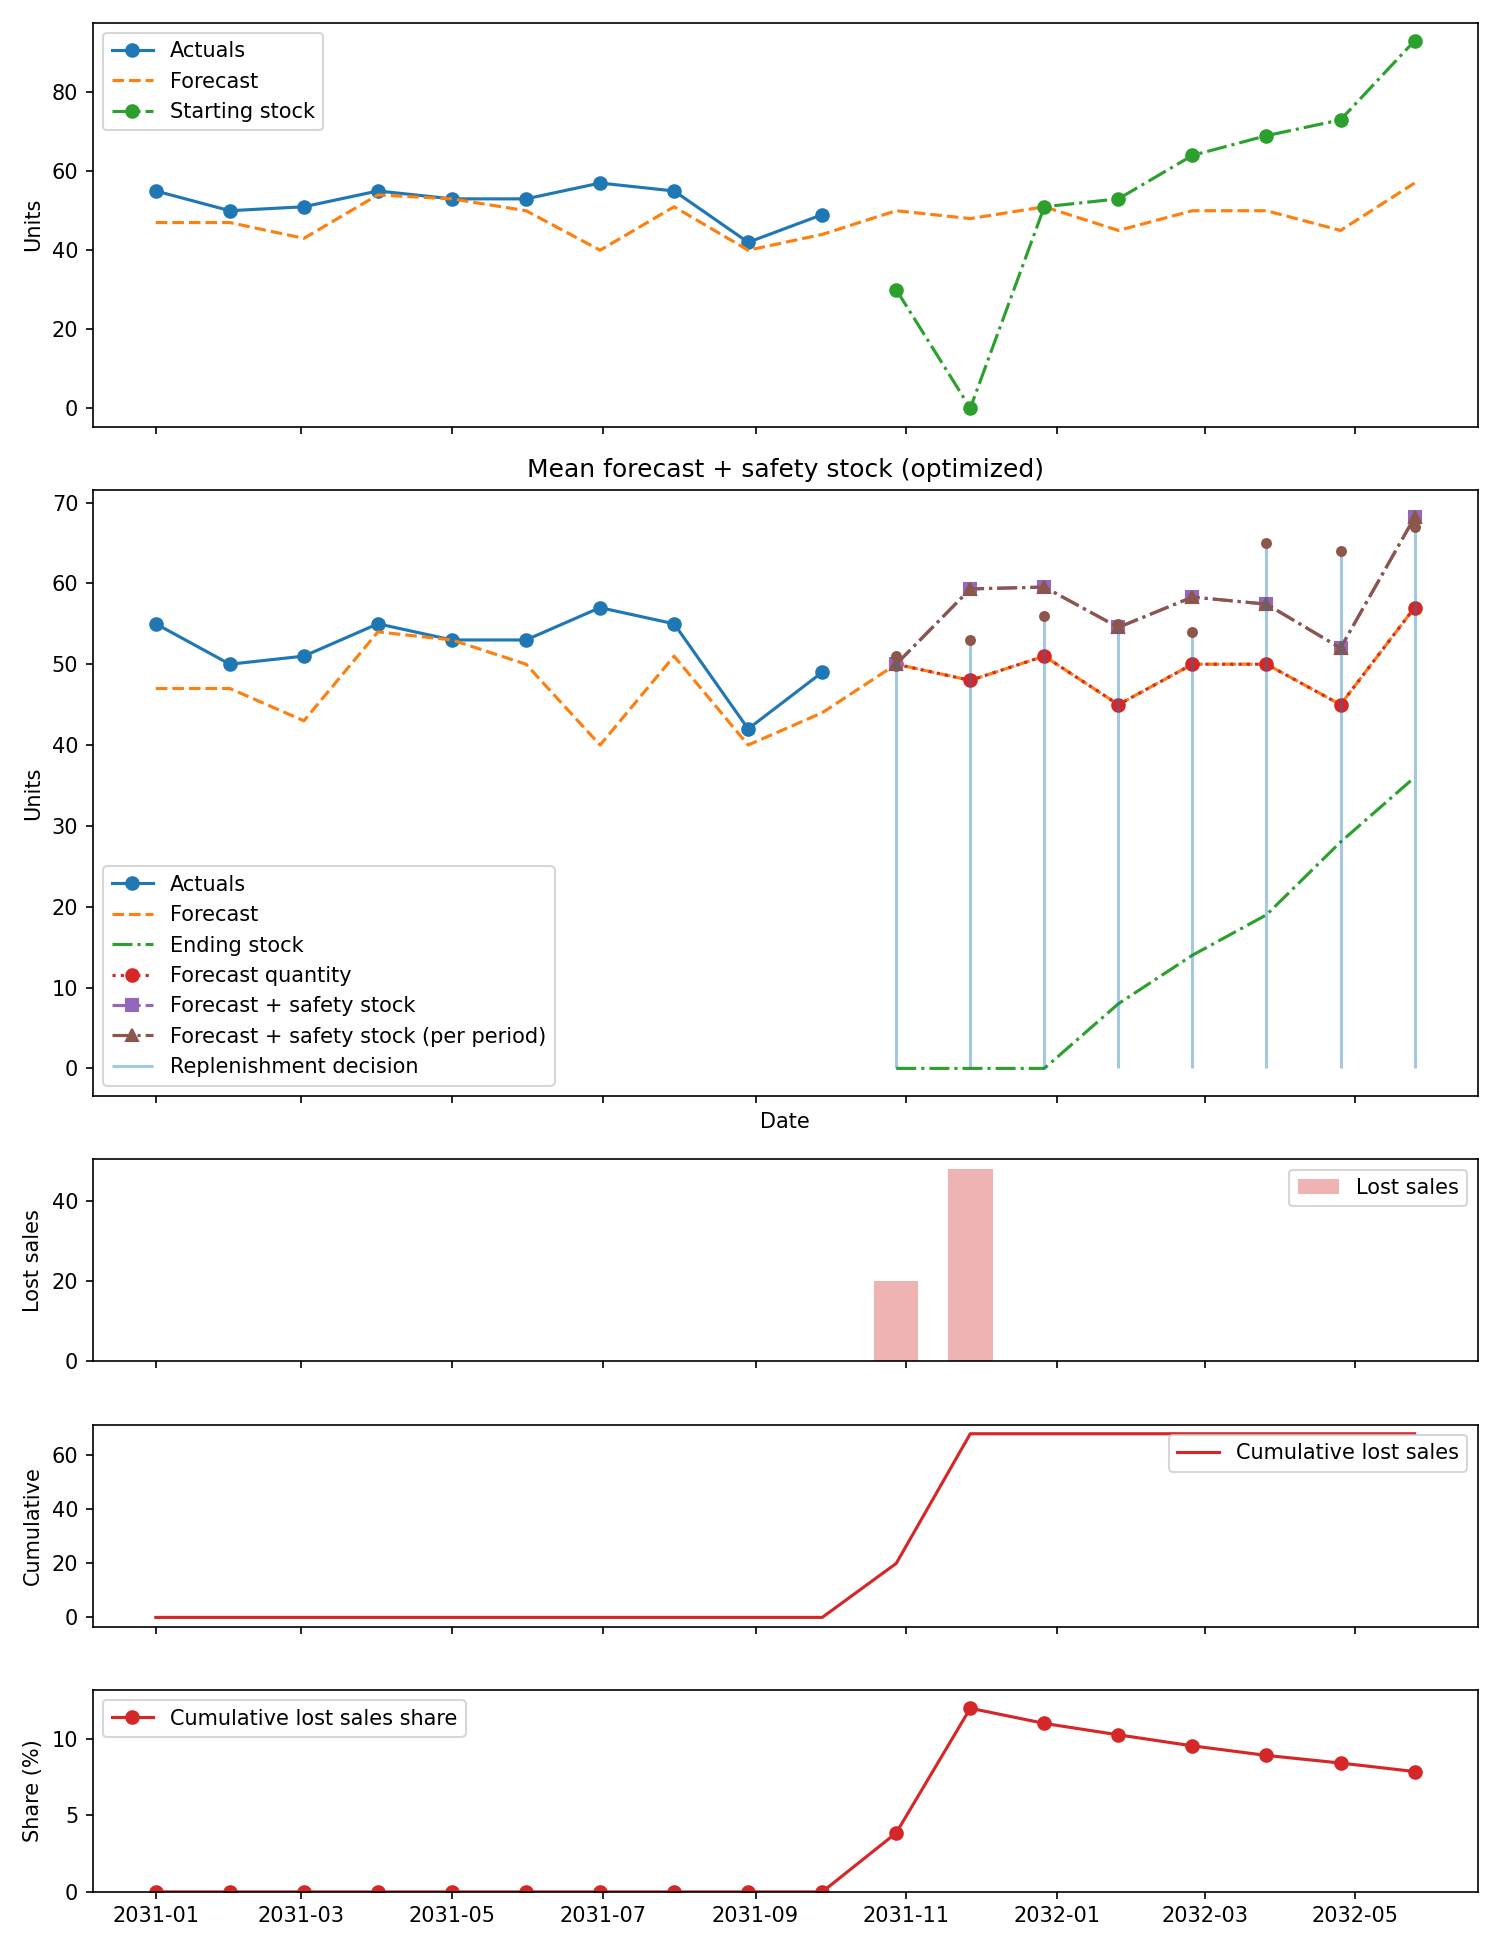
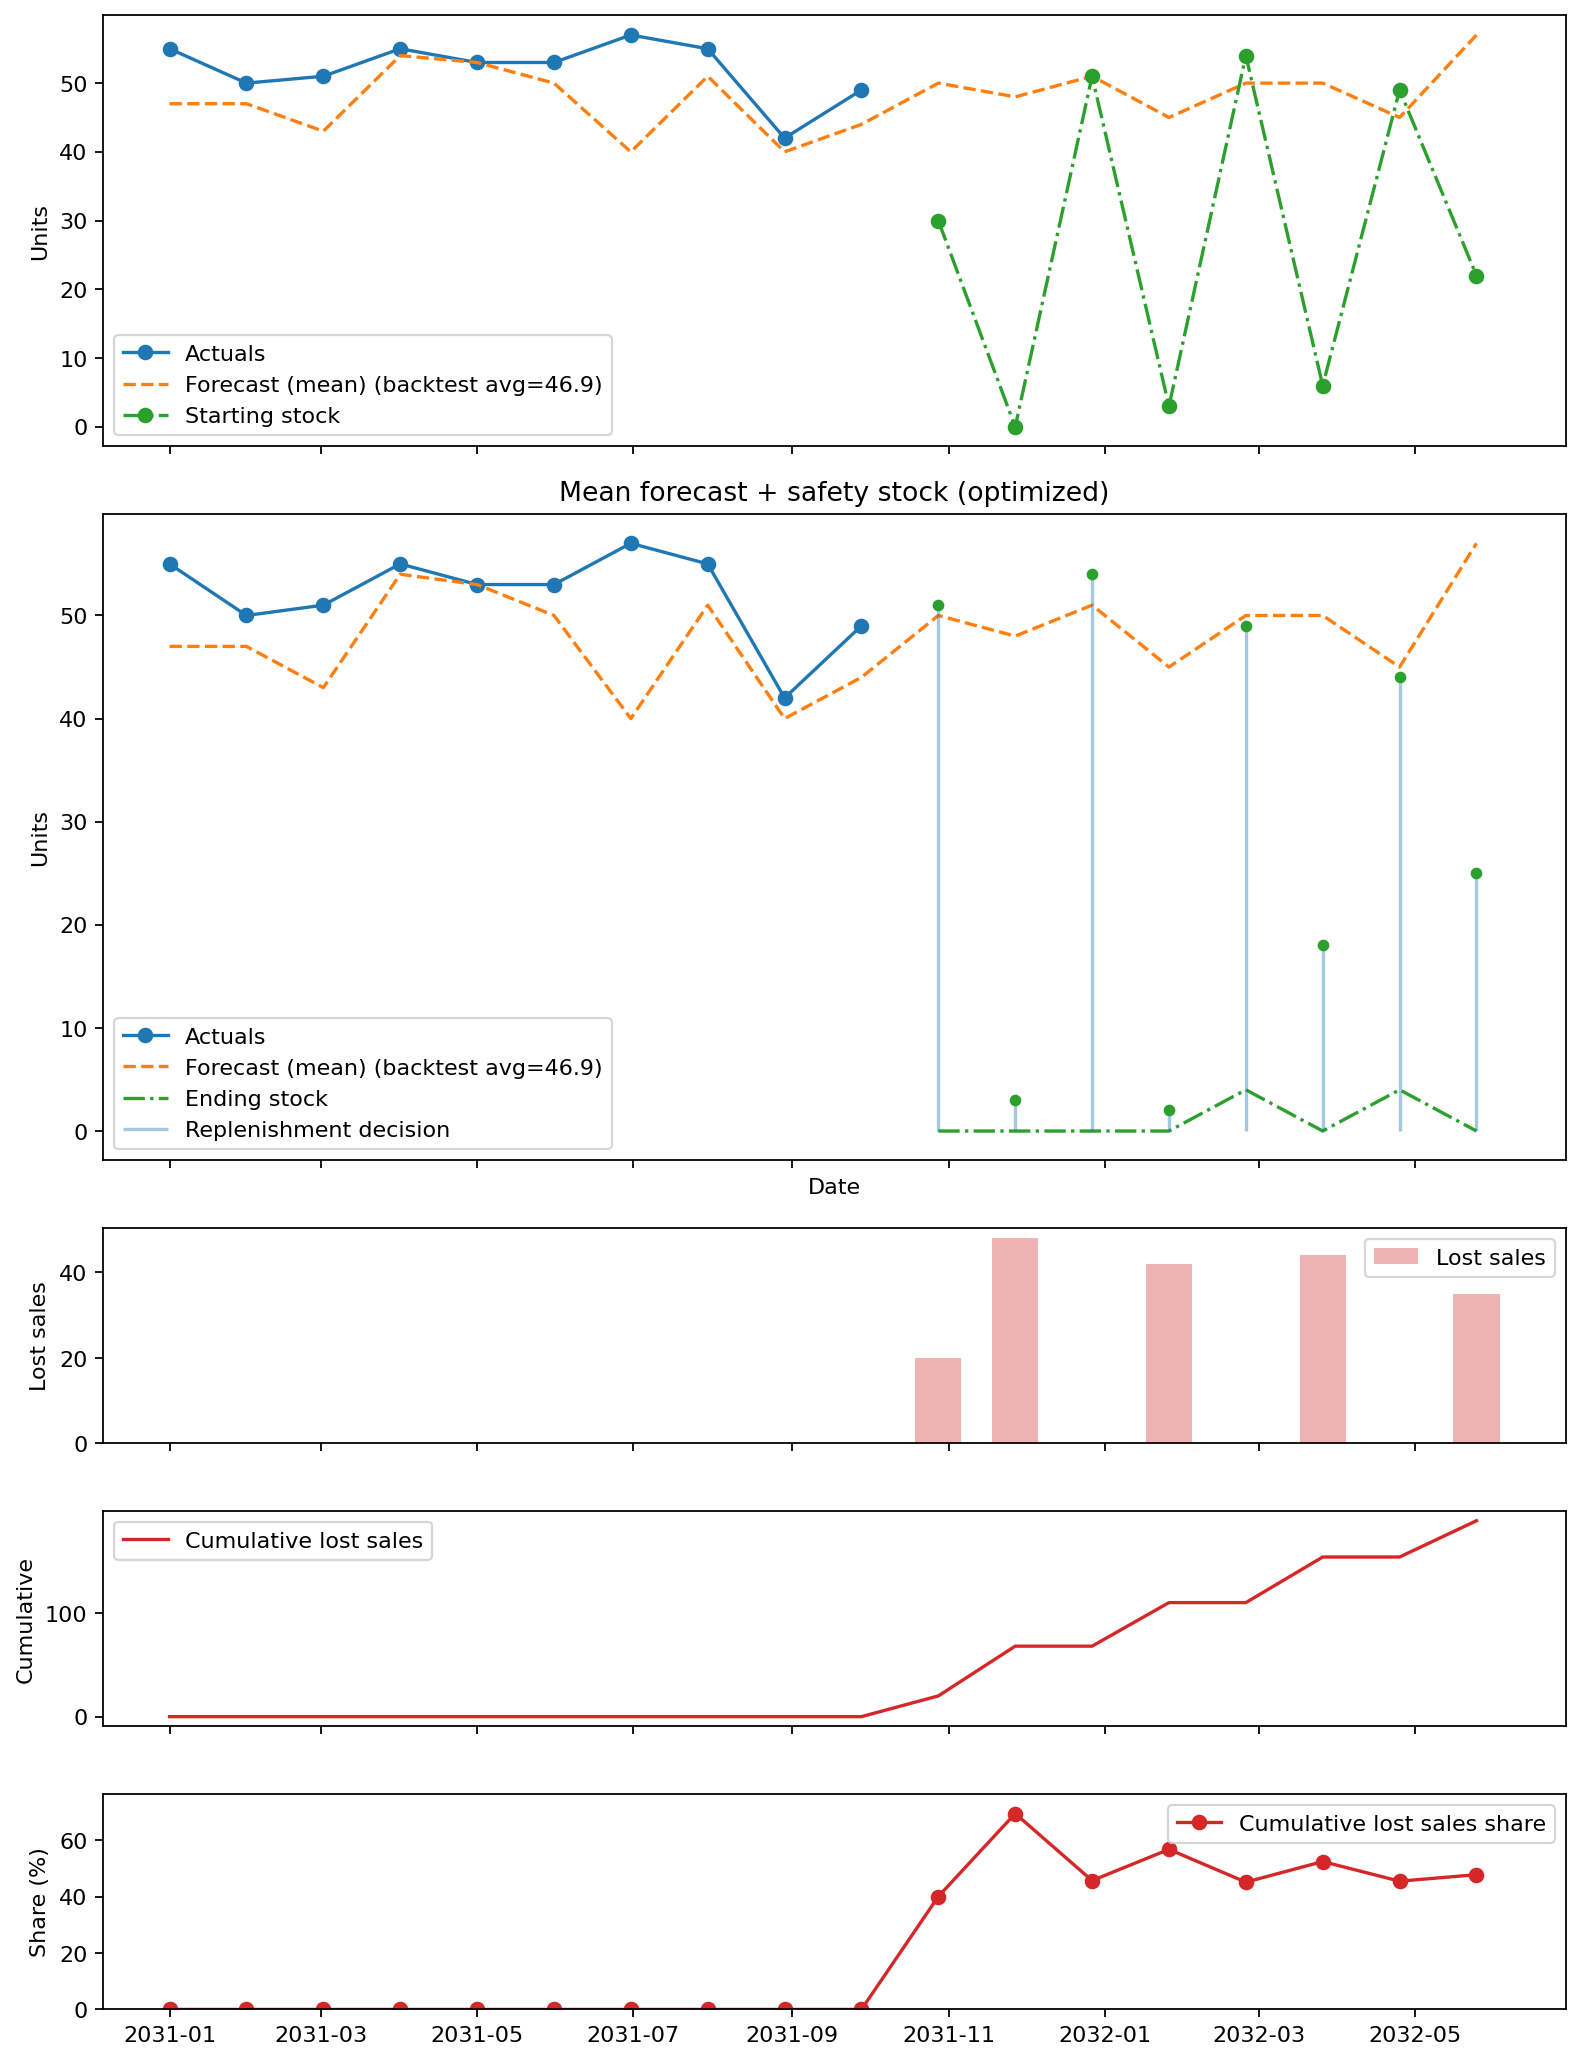
Prepare v0.1.2 release

diff --git a/README.md b/README.md
@@ -1,42 +1,55 @@
 # replenishment
 
-Stock replenishment simulation utilities.
+[![CI](https://github.com/janrth/replenishment/actions/workflows/ci.yml/badge.svg)](https://github.com/janrth/replenishment/actions/workflows/ci.yml)
+[![PyPI](https://img.shields.io/pypi/v/replenishment.svg)](https://pypi.org/project/replenishment/)
+[![Python](https://img.shields.io/pypi/pyversions/replenishment.svg)](https://pypi.org/project/replenishment/)
 
-## Environment (uv + Python 3.12)
+`replenishment` is a Python library for stock replenishment simulation, policy optimization, and decision visualization.
 
-This repo is set up to use Python 3.12 via `uv`.
+It is designed for teams that want to:
+
+- simulate replenishment policies against historical or synthetic demand
+- optimize mean-forecast safety stock, `k*RMSE`, and percentile-target policies
+- compare policies visually on replenishment time series
+- move cleanly between CSV/DataFrame inputs and simulation configs
+
+## Supported Python Versions
+
+The project is tested on Python `3.10`, `3.11`, `3.12`, and `3.13`.
+
+Yes, Python `3.13` is out and stable. `Python 3.13.0` was officially released on October 7, 2024.
+
+## Installation
+
+### Install from PyPI
 
 ```bash
-uv python install 3.12
-uv venv --python 3.12
-source .venv/bin/activate
-uv pip install -e ".[dev]"
+pip install replenishment
 ```
 
-Run checks with:
+### Create a Development Environment with `uv`
+
+Choose any supported Python version. `3.13` is the default below.
+
+```bash
+uv python install 3.13
+uv venv --python 3.13
+source .venv/bin/activate
+uv sync --extra dev
+```
+
+To work on another supported version, replace `3.13` with `3.10`, `3.11`, or `3.12`.
+
+Run the test suite with:
 
 ```bash
 uv run pytest
 ```
 
-## Usage
-## Plot-first usage
+## Quickstart
 
-This README focuses on two visual workflows:
-
-- Mean forecast + safety stock optimization.
-- Percentile target optimization.
-
-## Example 1: mean forecast + safety stock
-
-This example optimizes the safety stock factor on a backtest window, then
-applies the learned policy to the evaluation horizon.
-
-If you want extra protection when forecasted demand spikes (for example,
-Black Friday), set `demand_buffer_strength` on point-forecast policies. The
-effective safety stock becomes `sigma * rmse * sqrt(horizon) * multiplier`,
-where `multiplier` increases when forecast quantity exceeds a baseline
-(`demand_buffer_reference`, or historical mean demand when omitted).
+This example optimizes a mean-forecast safety stock factor on a backtest window
+and applies the learned policy on the forecast horizon.
 
 ```python
 from replenishment import (
@@ -84,119 +97,67 @@ plot_replenishment_decisions(
 )
 ```
 
+## Example Workflows
+
+### Mean Forecast + Safety Stock
+
+Optimize a point-forecast safety stock factor on historical rows, then inspect
+the resulting replenishment decisions on the forecast horizon.
+
 ![Mean forecast + safety stock example](docs/plots/mean_forecast_safety_stock.png)
 
-## Example 2: optimize percentile targets
+### `k*RMSE` + Forecast-Level Buffering
 
-This example learns the best percentile target on backtest rows and then plots
-replenishment decisions on forecast rows.
+Use `k*RMSE` for the base safety stock and optionally increase it when lead-time
+forecast quantities rise above a baseline. The README plot below uses three
+articles with progressively steeper ramps so the extra safety stock is visible
+directly on the replenishment timeline.
 
-```python
-from replenishment import (
-    PercentileForecastOptimizationPolicy,
-    build_percentile_forecast_candidates_from_standard_rows,
-    build_replenishment_decisions_from_simulations,
-    generate_standard_simulation_rows,
-    optimize_forecast_targets,
-    plot_replenishment_decisions,
-    replenishment_decision_rows_to_dataframe,
-    simulate_replenishment_with_aggregation,
-    split_standard_simulation_rows,
-    standard_simulation_rows_to_dataframe,
-)
+![k*RMSE forecast buffering example](docs/plots/k_rmse_forecast_buffering.png)
 
-rows = generate_standard_simulation_rows(
-    n_unique_ids=1,
-    periods=24,
-    start_date="2031-01-01",
-    frequency_days=30,
-    forecast_start_period=14,
-    history_mean=42,
-    history_std=7,
-    forecast_mean=40,
-    forecast_std=5,
-    lead_time=2,
-    initial_on_hand=25,
-    current_stock=25,
-    seed=11,
-    percentile_multipliers={"p50": 1.0, "p80": 1.2, "p95": 1.35},
-)
-backtest_rows, forecast_rows = split_standard_simulation_rows(rows)
+### Percentile Target Optimization
 
-percentile_configs = build_percentile_forecast_candidates_from_standard_rows(
-    backtest_rows,
-    include_mean=True,
-    review_period=1,
-    forecast_horizon=1,
-)
-optimized = optimize_forecast_targets(percentile_configs)
-
-forecast_configs = build_percentile_forecast_candidates_from_standard_rows(
-    forecast_rows,
-    include_mean=True,
-    review_period=1,
-    forecast_horizon=1,
-)
-simulations = {}
-for unique_id, config in forecast_configs.items():
-    target = optimized[unique_id].target
-    policy = PercentileForecastOptimizationPolicy(
-        forecast=config.forecast_candidates[target],
-        lead_time=config.lead_time,
-    )
-    simulations[unique_id] = simulate_replenishment_with_aggregation(
-        periods=config.periods,
-        demand=config.demand,
-        initial_on_hand=config.initial_on_hand,
-        lead_time=config.lead_time,
-        policy=policy,
-        aggregation_window=1,
-        holding_cost_per_unit=config.holding_cost_per_unit,
-        stockout_cost_per_unit=config.stockout_cost_per_unit,
-        order_cost_per_order=config.order_cost_per_order,
-        order_cost_per_unit=config.order_cost_per_unit,
-    )
-
-decision_rows = build_replenishment_decisions_from_simulations(
-    forecast_rows,
-    simulations,
-    percentile_target={uid: optimized[uid].target for uid in simulations},
-    review_period=1,
-    forecast_horizon=1,
-    rmse_window=1,
-)
-rows_df = standard_simulation_rows_to_dataframe(rows, library="pandas")
-decision_df = replenishment_decision_rows_to_dataframe(decision_rows, library="pandas")
-
-example_id = decision_df["unique_id"].iloc[0]
-plot_replenishment_decisions(
-    rows_df,
-    decision_df,
-    unique_id=example_id,
-    title="Percentile forecast target (optimized)",
-    decision_style="line",
-)
-```
+Optimize the percentile target per article on backtest rows, then simulate and
+visualize the chosen forecast target on the evaluation horizon.
 
 ![Percentile target optimization example](docs/plots/percentile_optimization.png)
 
 ## Notebooks
 
-For full runnable walkthroughs (including additional variants):
+Runnable walkthroughs live in [`notebooks/`](notebooks):
 
-- `notebooks/mean_forecast_safety_stock_example.ipynb`
-- `notebooks/k_rmse_safety_stock_optimization_example.ipynb`
-- `notebooks/percentile_optimization_example.ipynb`
-- `notebooks/generated_data_example.ipynb`
+- [`notebooks/mean_forecast_safety_stock_example.ipynb`](notebooks/mean_forecast_safety_stock_example.ipynb): mean forecast safety stock optimization
+- [`notebooks/k_rmse_safety_stock_optimization_example.ipynb`](notebooks/k_rmse_safety_stock_optimization_example.ipynb): `k*RMSE` optimization and forecast-level buffering
+- [`notebooks/percentile_optimization_example.ipynb`](notebooks/percentile_optimization_example.ipynb): percentile-target optimization
+- [`notebooks/mean_forecast_policy_variants_example.ipynb`](notebooks/mean_forecast_policy_variants_example.ipynb): compare policy variants
+- [`notebooks/generated_data_example.ipynb`](notebooks/generated_data_example.ipynb): synthetic data generation
+- [`notebooks/stock_replenishment_example.ipynb`](notebooks/stock_replenishment_example.ipynb): table-oriented data loading workflow
 
-For data-loading and table-oriented flows (without plots), see:
+## Development and Contribution
 
-- `notebooks/stock_replenishment_example.ipynb`
+Contributions are welcome. If you open a PR, keep it easy to review:
 
-## Standard schema helpers
+- add or update tests for behavior changes
+- update notebooks, README examples, and plot assets when public behavior changes
+- include before/after plots when you change plotting behavior
+- keep PRs focused rather than bundling unrelated refactors
 
-If you need CSV/DataFrame conversion helpers:
+See [`CONTRIBUTING.md`](CONTRIBUTING.md) for setup, test, and pull request guidance.
 
-- `iter_standard_simulation_rows_from_csv`
-- `standard_simulation_rows_from_dataframe`
-- `build_point_forecast_article_configs_from_standard_rows`
+## Good Areas for Collaboration
+
+If you want to make the project more useful and more credible to other teams,
+these are high-leverage contribution areas:
+
+- richer policy variants, such as minimum order quantities, case-pack constraints, and promotion-aware demand handling
+- benchmark datasets and scenario packs for retail seasonality, long lead times, and stockout-heavy stress tests
+- more notebook walkthroughs that compare service-level objectives and business tradeoffs
+- packaging and docs polish, including API docs, changelogs, and release notes
+- plotting improvements for aggregate dashboards and multi-SKU diagnostics
+
+## Project Links
+
+- Homepage: <https://github.com/janrth/replenishment>
+- Issues: <https://github.com/janrth/replenishment/issues>
+- Changelog: [CHANGELOG.md](CHANGELOG.md)
+- License: [LICENSE](LICENSE)

diff --git a/CONTRIBUTING.md b/CONTRIBUTING.md
@@ -1,0 +1,51 @@
+# Contributing
+
+Thanks for contributing to `replenishment`.
+
+## Development Setup
+
+The project supports Python `3.10`, `3.11`, `3.12`, and `3.13`.
+
+Using `uv` is the simplest setup:
+
+```bash
+uv python install 3.13
+uv venv --python 3.13
+source .venv/bin/activate
+uv sync --extra dev
+```
+
+If you want to validate a different supported version, replace `3.13` with
+`3.10`, `3.11`, or `3.12`.
+
+## Running Checks
+
+Run the test suite with:
+
+```bash
+uv run pytest
+```
+
+If you change notebook-facing behavior, also rerun the relevant example notebook
+or plot-generation snippet and update the checked-in plot assets under
+`docs/plots/` when needed.
+
+## Pull Requests
+
+To keep reviews fast and predictable:
+
+- keep each PR focused on one logical change
+- add or update tests for behavior changes
+- update README examples, notebooks, and plot assets when public APIs or outputs change
+- include screenshots or plots for visualization changes
+- call out any follow-up work explicitly instead of leaving it implicit
+
+## Good First Contributions
+
+Useful contribution areas include:
+
+- new replenishment policies or policy constraints
+- additional synthetic-data generators and scenario notebooks
+- API docs and notebook cleanup
+- CI, packaging, and release automation improvements
+- bug fixes with regression tests

diff --git a/CHANGELOG.md b/CHANGELOG.md
@@ -1,0 +1,33 @@
+# Changelog
+
+All notable changes to this project will be documented in this file.
+
+## [0.1.2] - 2026-03-17
+
+### Added
+
+- Added `k*RMSE` as an explicit safety stock method.
+- Added demand-scaled forecast buffering options for point-forecast policies.
+- Added a notebook example showing how forecast-level buffering increases safety stock on replenishment timelines.
+- Added top-level contribution guidance in `CONTRIBUTING.md`.
+- Added an MIT license.
+
+### Changed
+
+- Improved fill-rate safety stock handling to use protection-window demand.
+- Preserved lead-time offset behavior in the empirical multiplier policy.
+- Hardened the release workflow for reruns.
+- Refreshed the README, installation instructions, supported Python versions, and checked-in plot assets.
+- Expanded CI coverage to Python 3.10, 3.11, 3.12, and 3.13.
+
+## [0.1.1] - 2025-02-08
+
+### Added
+
+- Added the percentile optimization step-by-step workflow and release automation improvements.
+
+## [0.1.0] - 2025-02-07
+
+### Added
+
+- Initial PyPI release setup.
